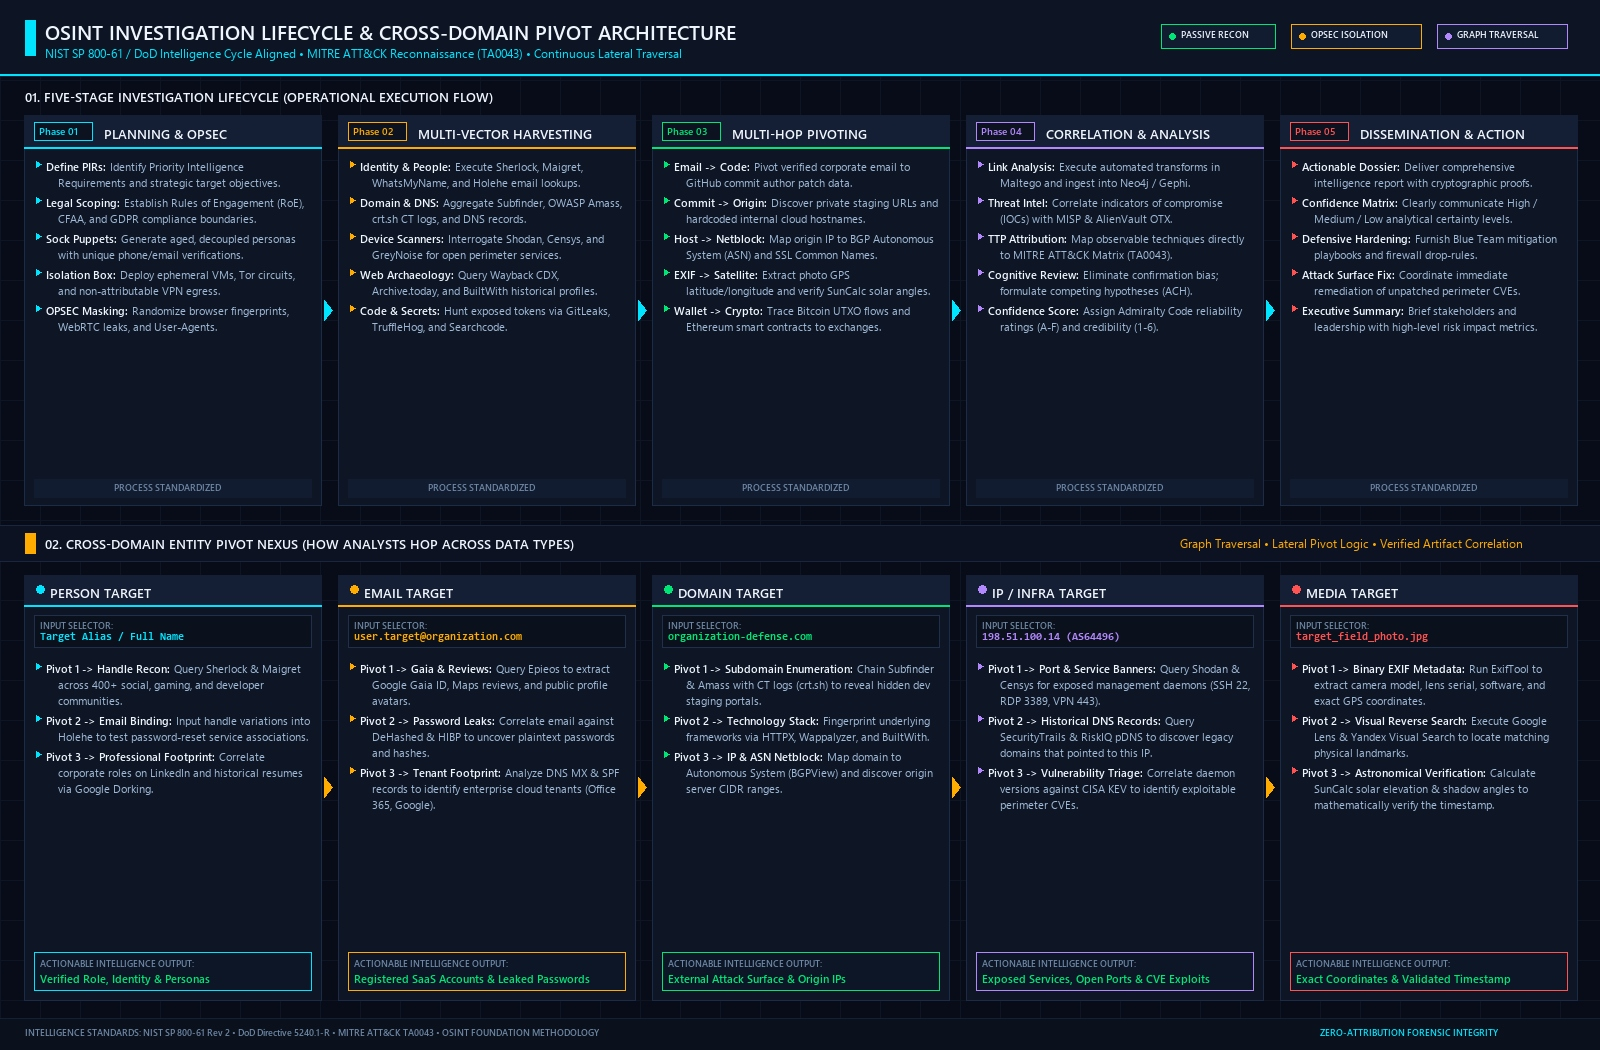
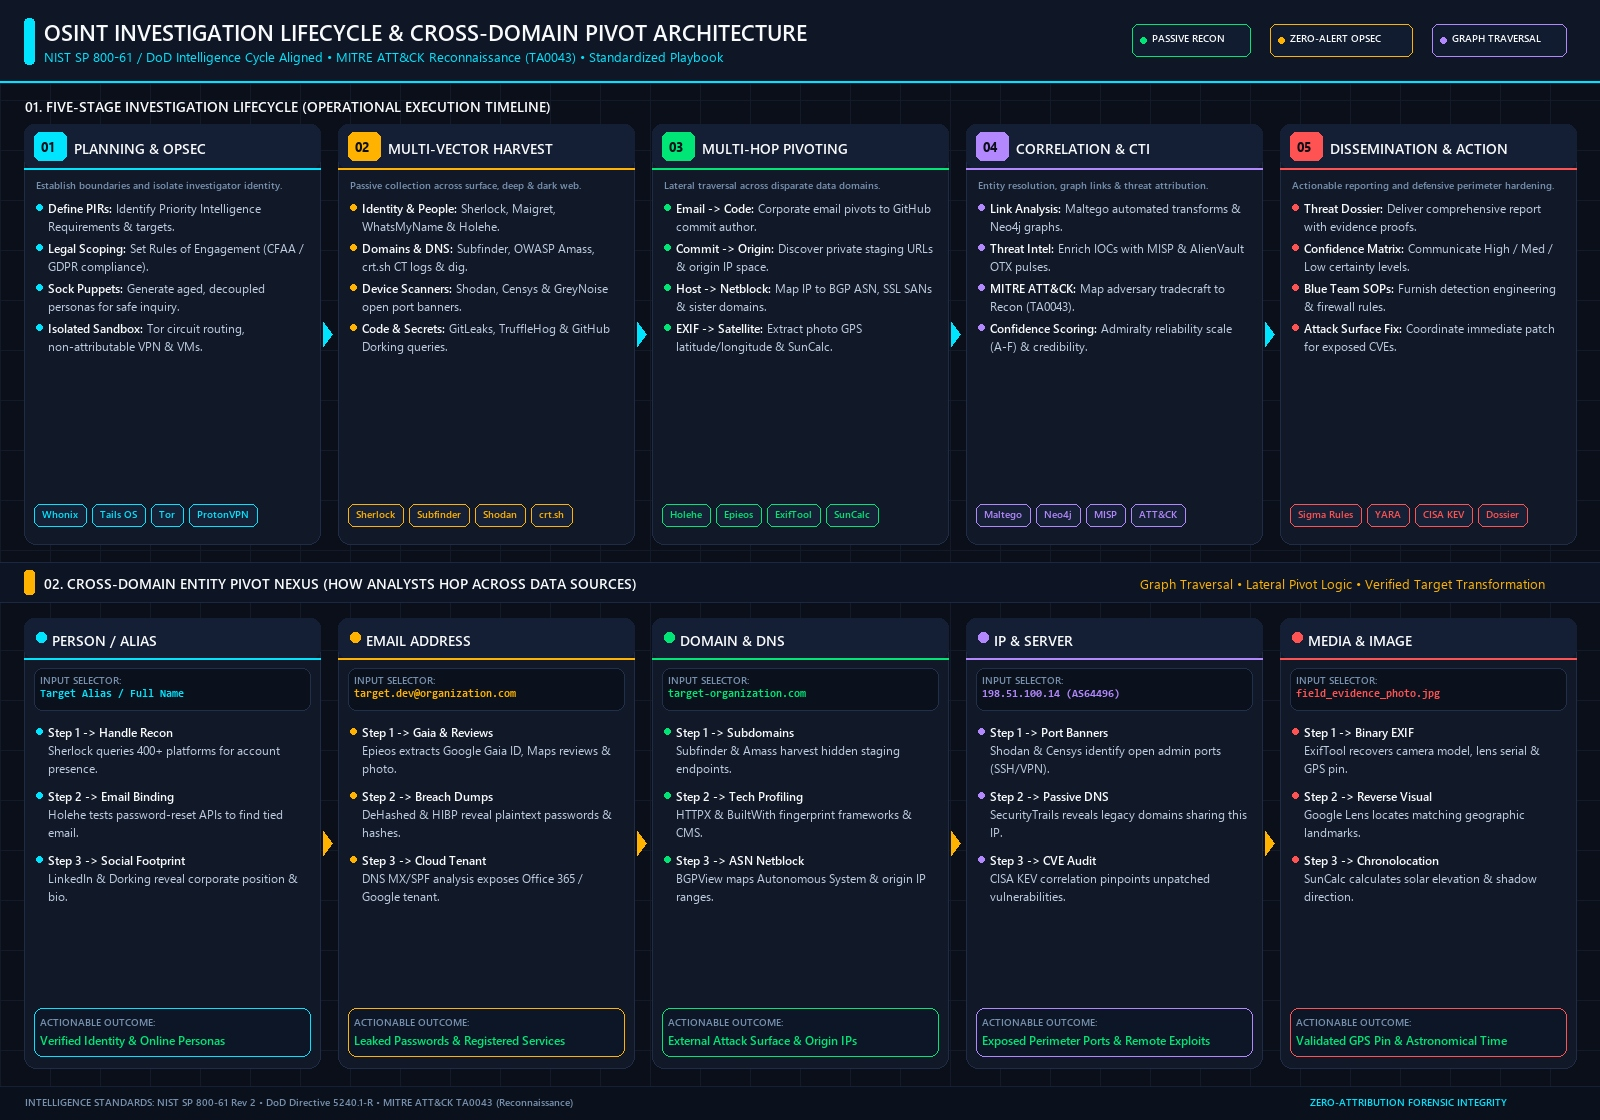
feat(osint): replace pipeline wireframe with modern SaaS card diagram, animated interactive GIF, and expandable accordions

diff --git a/OSINT/README.md b/OSINT/README.md
@@ -26,11 +26,71 @@
 
 <div align="center">
 
-![OSINT Lifecycle and Pivot Architecture](./Over%20all%20OSINT/images/osint_investigation_lifecycle_pipeline.jpg)
+![OSINT Lifecycle and Pivot Architecture Interactive Flow](./Over all OSINT/images/osint_investigation_lifecycle_pipeline.gif)
 
-*High-Resolution Operational Execution Flow: 5-Stage Investigation Lifecycle & Cross-Domain Entity Pivot Nexus.*
+*Figure 1.1: Interactive Animated Lifecycle & Entity Pivot Flow — Dynamically cycling through all 5 phases & pivot transformations.*
 
 </div>
+
+<br>
+
+<details open>
+<summary><b>🔍 Click to view High-Resolution Static Architecture Blueprint & Breakdown</b></summary>
+
+<div align="center">
+
+![OSINT Lifecycle and Pivot Architecture High-Res Blueprint](./Over all OSINT/images/osint_investigation_lifecycle_pipeline.jpg)
+
+</div>
+
+#### ⚡ Interactive Operational Phase Breakdown:
+
+<details>
+<summary><b>Phase 01: Planning, Direction & OPSEC (Click to expand)</b></summary>
+
+* **Objective:** Define Priority Intelligence Requirements (PIRs) and establish legal Rules of Engagement (RoE).
+* **OPSEC Protocol:** Provision aged, decoupled sock puppets, isolate hardware inside Whonix/Tails VMs, route traffic over Tor circuits and non-attributable VPN tunnels, and randomize browser canvas fingerprints.
+* **Core Toolchain:** `Whonix`, `Tails OS`, `Tor`, `ProtonVPN`, `User-Agent Switcher`.
+
+</details>
+
+<details>
+<summary><b>Phase 02: Multi-Vector Signal Harvesting (Click to expand)</b></summary>
+
+* **Objective:** Conduct exhaustive passive collection without sending active probe packets to the target.
+* **Collection Vectors:** Identity footprints (`Sherlock`, `Maigret`), Certificate Transparency (`crt.sh`), passive subdomain enumeration (`Subfinder`, `Amass`), device scanners (`Shodan`, `Censys`), and secrets detection (`GitLeaks`, `TruffleHog`).
+* **Core Toolchain:** `Subfinder`, `Amass`, `Shodan`, `Holehe`, `Censys`, `GitLeaks`.
+
+</details>
+
+<details>
+<summary><b>Phase 03: Multi-Hop Lateral Pivoting (Click to expand)</b></summary>
+
+* **Objective:** Traverse from single isolated artifacts into multi-domain entity graphs.
+* **Pivot Chains:** Email $\to$ GitHub Commits $\to$ Internal Dev Domains $\to$ Origin IP Addresses $\to$ SSL Certificate SANs $\to$ Exposed Administration Portals.
+* **Core Toolchain:** `Holehe`, `Epieos`, `SecurityTrails`, `ExifTool`, `SunCalc`.
+
+</details>
+
+<details>
+<summary><b>Phase 04: Correlation, Processing & CTI Enrichment (Click to expand)</b></summary>
+
+* **Objective:** Synthesize raw observables into structured intelligence graphs and map adversary TTPs.
+* **Analytical Engines:** Automated transform discovery in Maltego, graph database modeling in Neo4j/Gephi, threat indicator correlation via MISP & AlienVault OTX, and MITRE ATT&CK Reconnaissance (TA0043) alignment.
+* **Core Toolchain:** `Maltego`, `Neo4j`, `MISP`, `AlienVault OTX`, `MITRE ATT&CK Navigator`.
+
+</details>
+
+<details>
+<summary><b>Phase 05: Dissemination, Reporting & Defensive Action (Click to expand)</b></summary>
+
+* **Objective:** Deliver actionable intelligence dossiers with cryptographic proof and mitigation playbooks.
+* **Actionable Outputs:** Assign Admiralty Code reliability ratings, generate Blue Team containment playbooks (Sigma rules, firewall drop lists), and guide immediate CVE remediation.
+* **Core Toolchain:** `Sigma Rules`, `YARA`, `CISA KEV`, `Executive Threat Dossier`.
+
+</details>
+
+</details>
 
 ---
 

diff --git a/OSINT/Over all OSINT/README.md b/OSINT/Over all OSINT/README.md
@@ -21,9 +21,75 @@
 
 ---
 
-## 🗺 Investigation Lifecycle Architecture
+## 🗺 Investigation Lifecycle & Pivot Architecture
 
-![OSINT Lifecycle and Pivot Architecture](./images/osint_investigation_lifecycle_pipeline.jpg)
+<div align="center">
+
+![OSINT Lifecycle and Pivot Architecture Interactive Flow](./images/osint_investigation_lifecycle_pipeline.gif)
+
+*Figure 1.1: Interactive Animated Lifecycle & Entity Pivot Flow — Dynamically cycling through all 5 phases & pivot transformations.*
+
+</div>
+
+<br>
+
+<details open>
+<summary><b>🔍 Click to view High-Resolution Static Architecture Blueprint & Breakdown</b></summary>
+
+<div align="center">
+
+![OSINT Lifecycle and Pivot Architecture High-Res Blueprint](./images/osint_investigation_lifecycle_pipeline.jpg)
+
+</div>
+
+#### ⚡ Interactive Operational Phase Breakdown:
+
+<details>
+<summary><b>Phase 01: Planning, Direction & OPSEC (Click to expand)</b></summary>
+
+* **Objective:** Define Priority Intelligence Requirements (PIRs) and establish legal Rules of Engagement (RoE).
+* **OPSEC Protocol:** Provision aged, decoupled sock puppets, isolate hardware inside Whonix/Tails VMs, route traffic over Tor circuits and non-attributable VPN tunnels, and randomize browser canvas fingerprints.
+* **Core Toolchain:** `Whonix`, `Tails OS`, `Tor`, `ProtonVPN`, `User-Agent Switcher`.
+
+</details>
+
+<details>
+<summary><b>Phase 02: Multi-Vector Signal Harvesting (Click to expand)</b></summary>
+
+* **Objective:** Conduct exhaustive passive collection without sending active probe packets to the target.
+* **Collection Vectors:** Identity footprints (`Sherlock`, `Maigret`), Certificate Transparency (`crt.sh`), passive subdomain enumeration (`Subfinder`, `Amass`), device scanners (`Shodan`, `Censys`), and secrets detection (`GitLeaks`, `TruffleHog`).
+* **Core Toolchain:** `Subfinder`, `Amass`, `Shodan`, `Holehe`, `Censys`, `GitLeaks`.
+
+</details>
+
+<details>
+<summary><b>Phase 03: Multi-Hop Lateral Pivoting (Click to expand)</b></summary>
+
+* **Objective:** Traverse from single isolated artifacts into multi-domain entity graphs.
+* **Pivot Chains:** Email $\to$ GitHub Commits $\to$ Internal Dev Domains $\to$ Origin IP Addresses $\to$ SSL Certificate SANs $\to$ Exposed Administration Portals.
+* **Core Toolchain:** `Holehe`, `Epieos`, `SecurityTrails`, `ExifTool`, `SunCalc`.
+
+</details>
+
+<details>
+<summary><b>Phase 04: Correlation, Processing & CTI Enrichment (Click to expand)</b></summary>
+
+* **Objective:** Synthesize raw observables into structured intelligence graphs and map adversary TTPs.
+* **Analytical Engines:** Automated transform discovery in Maltego, graph database modeling in Neo4j/Gephi, threat indicator correlation via MISP & AlienVault OTX, and MITRE ATT&CK Reconnaissance (TA0043) alignment.
+* **Core Toolchain:** `Maltego`, `Neo4j`, `MISP`, `AlienVault OTX`, `MITRE ATT&CK Navigator`.
+
+</details>
+
+<details>
+<summary><b>Phase 05: Dissemination, Reporting & Defensive Action (Click to expand)</b></summary>
+
+* **Objective:** Deliver actionable intelligence dossiers with cryptographic proof and mitigation playbooks.
+* **Actionable Outputs:** Assign Admiralty Code reliability ratings, generate Blue Team containment playbooks (Sigma rules, firewall drop lists), and guide immediate CVE remediation.
+* **Core Toolchain:** `Sigma Rules`, `YARA`, `CISA KEV`, `Executive Threat Dossier`.
+
+</details>
+
+</details>
 
 ---
 

diff --git a/OSINT/Over all OSINT/OSINT_Complete_Framework_and_Investigation_Guide.md b/OSINT/Over all OSINT/OSINT_Complete_Framework_and_Investigation_Guide.md
@@ -24,7 +24,26 @@
 
 Modern intelligence operations do not rely on passive web searches. Professional OSINT is an **iterative, multi-stage engineering discipline** structured across the standardized Intelligence Cycle:
 
-![OSINT Lifecycle and Pivot Architecture](./images/osint_investigation_lifecycle_pipeline.jpg)
+<div align="center">
+
+![OSINT Lifecycle and Pivot Architecture Interactive Flow](./images/osint_investigation_lifecycle_pipeline.gif)
+
+*Figure 1.1: Interactive Animated Lifecycle & Entity Pivot Flow — Dynamically cycling through all 5 phases & pivot transformations.*
+
+</div>
+
+<br>
+
+<details open>
+<summary><b>🔍 Click to view High-Resolution Static Architecture Blueprint & Breakdown</b></summary>
+
+<div align="center">
+
+![OSINT Lifecycle and Pivot Architecture High-Res Blueprint](./images/osint_investigation_lifecycle_pipeline.jpg)
+
+</div>
+
+</details>
 
 ```mermaid
 flowchart LR
